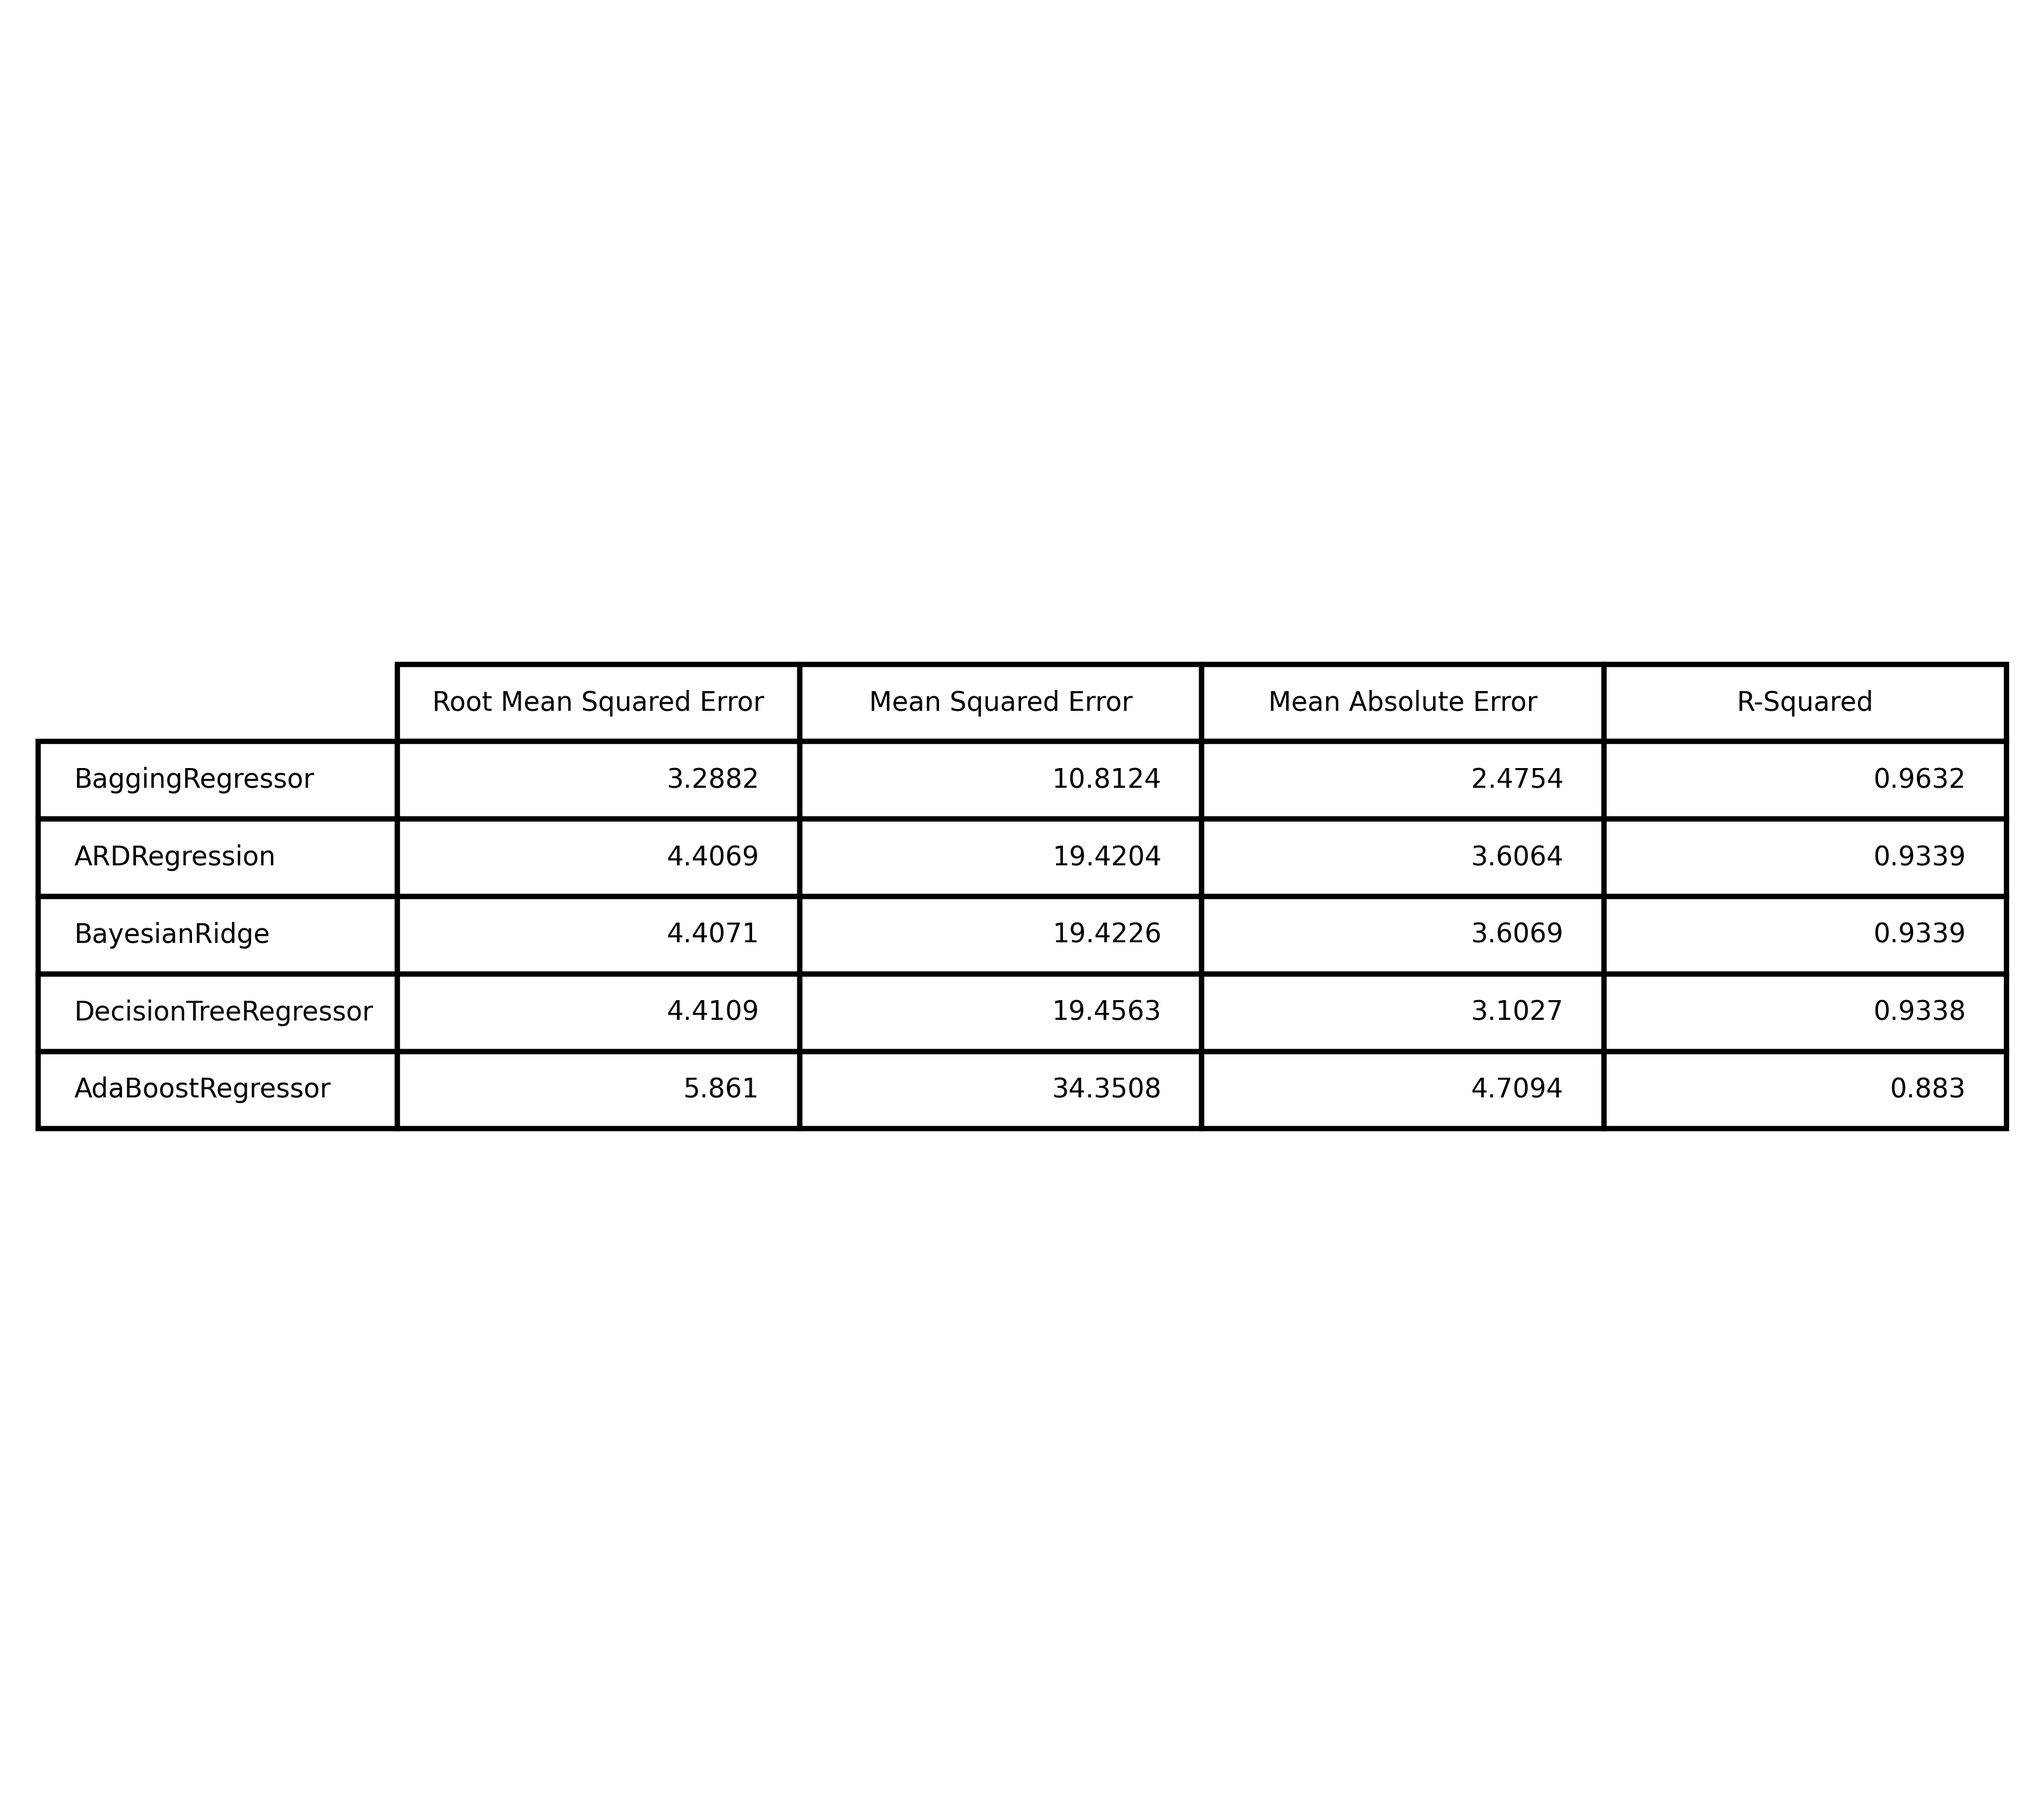
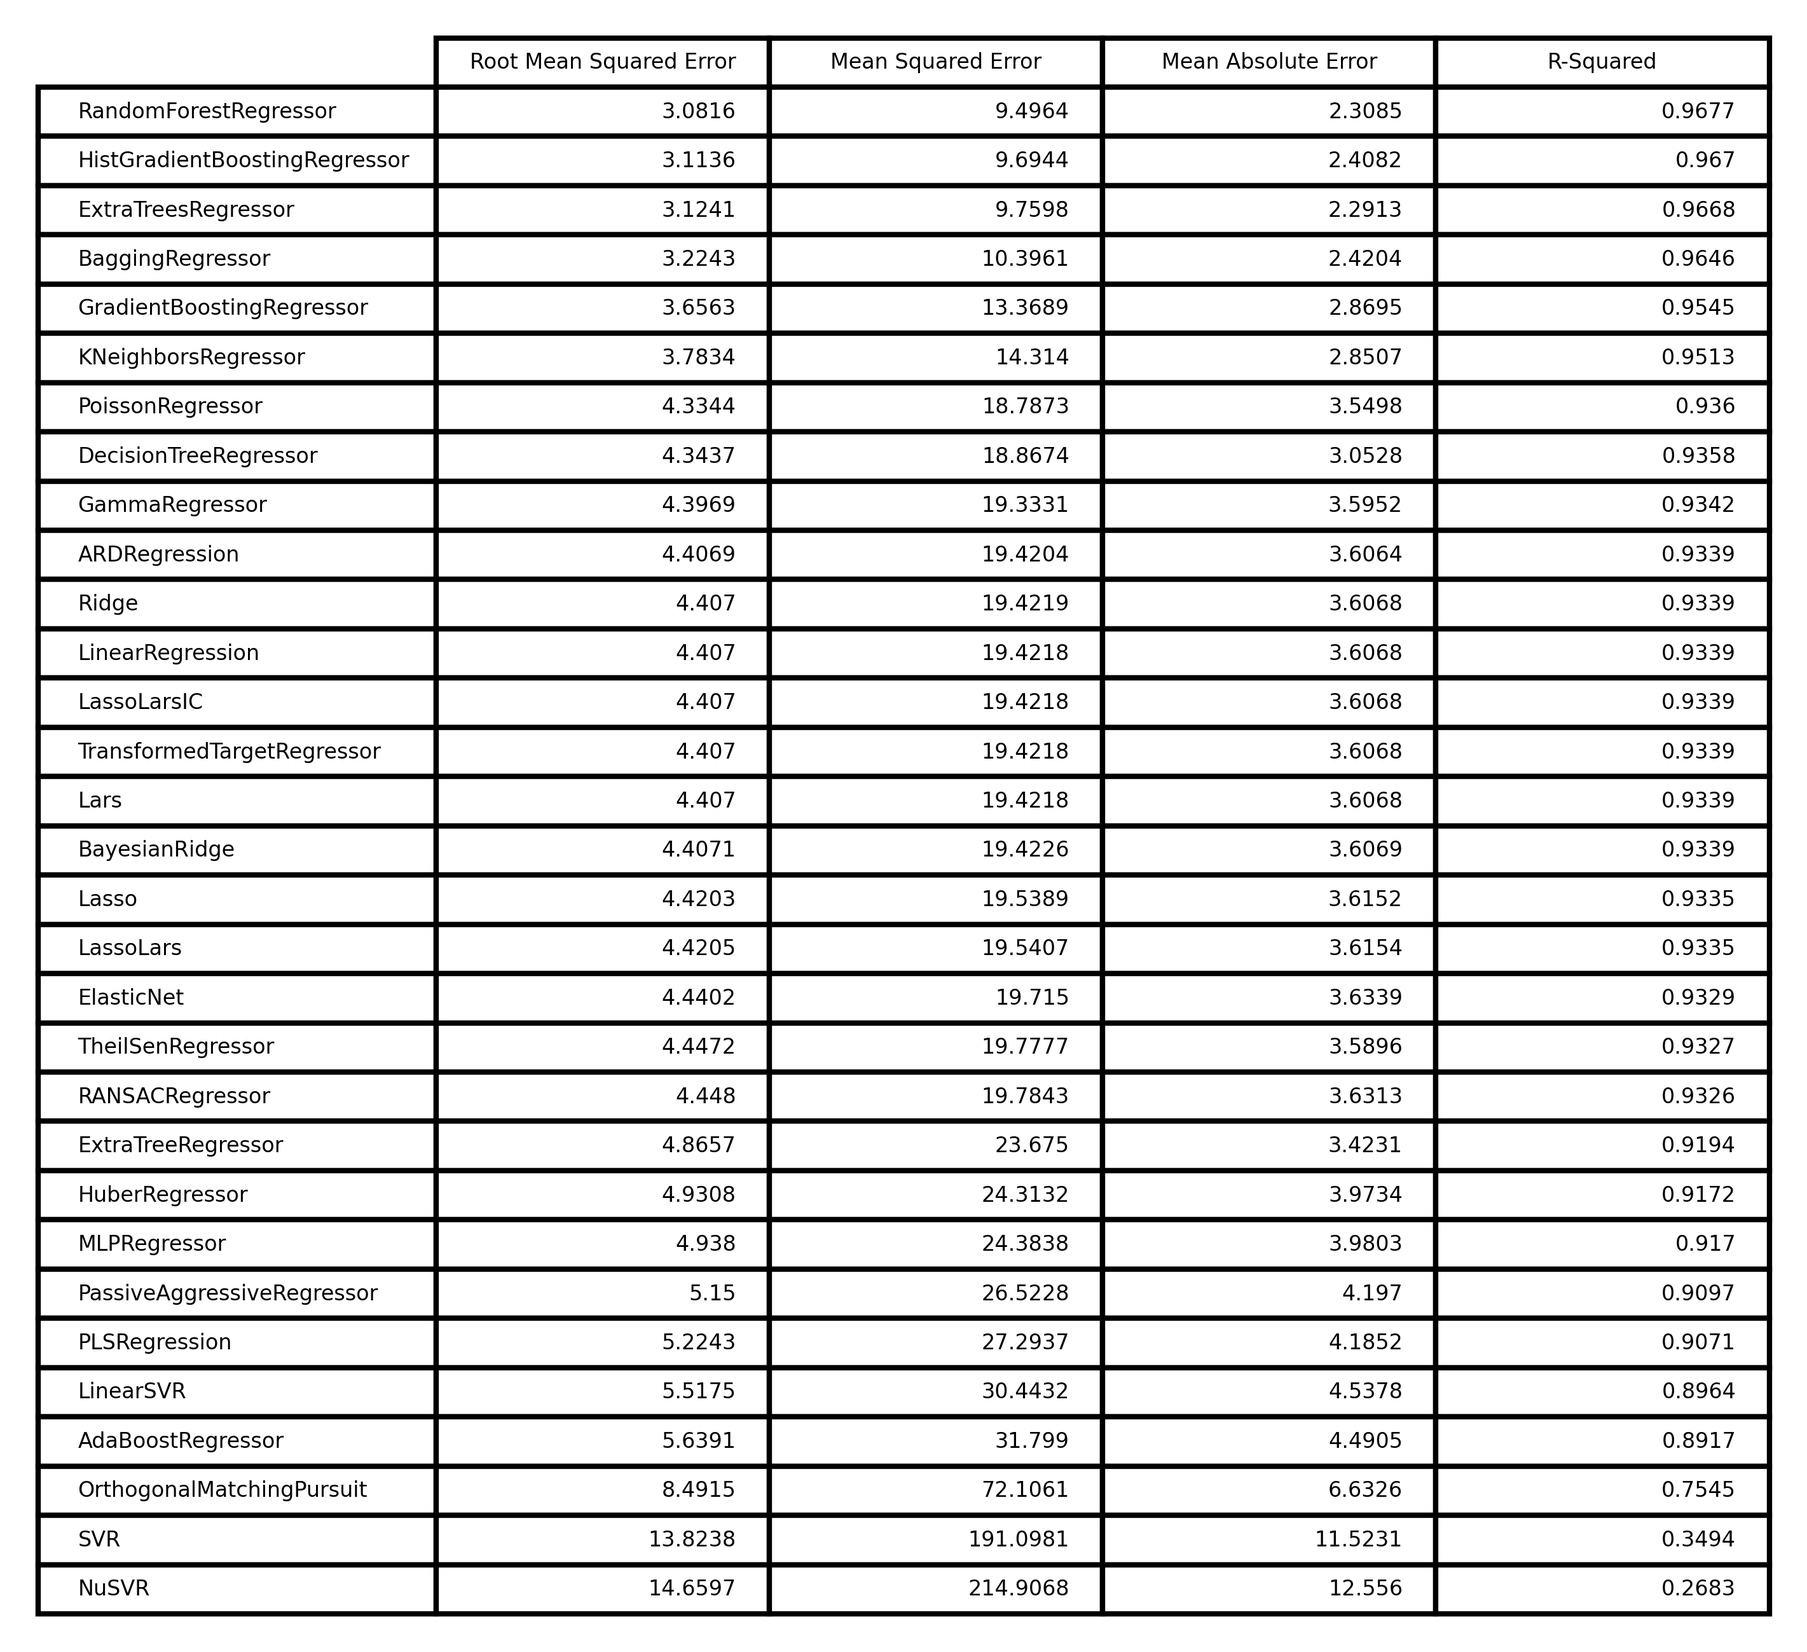
fixed partial cv error

Changed region(s): [[0.0, 0.0, 0.9909, 0.9977]]

diff --git a/AutoML/ScikitLearn/parSim_v5/samutils.py b/AutoML/ScikitLearn/parSim_v5/samutils.py
@@ -143,31 +143,32 @@ def comparison(datapath, n_regressors, metric_list, n_vizualized, metric_help, s
     with multiprocessing.Pool() as pool:
         results = pool.starmap(run, args_lst)
                          
-    org_results = {} # -> {'Reg Name': [{'Same Reg Name': [metric, metric, ..., Reg Obj.]}, {}, {}, ... ], '':[], '':[], ... }
+    org_results = {} # -> {'Reg Name': [{'Same Reg Name': [metric, metric, ..., Reg Obj.]}, {}, {}, ... ], '':[], '':[], ... } of raw results
     for r in results:
-        if list(r.keys())[0] in org_results:
-            org_results[list(r.keys())[0]] += [r]
-        else:
-            org_results[list(r.keys())[0]] = [r]
+        if type(r) == dict:
+            if list(r.keys())[0] in org_results:
+                org_results[list(r.keys())[0]] += [r]
+            else:
+                org_results[list(r.keys())[0]] = [r]
 
-    fin_org_results = {} # -> {'Reg Name': [{'Same Reg Name': [metric, metric, ..., Reg Obj.]}, {}, {}, ... ], '':[], '':[], ... }
+    fin_org_results = {} # -> {'Reg Name': [{'Same Reg Name': [metric, metric, ..., Reg Obj.]}, {}, {}, ... ], '':[], '':[], ... } of only successful CV runs
     for k,v in org_results.items():
         if len(v) == 10:
             fin_org_results[k] = v
 
-
     stop = perf_counter()
     print(f"Time to execute regression: {stop - start:.2f}s")
 
-    figs = [test_best(results, metric_list, test_attrib, test_labels, metric_help)]
-    # figs = [test_best(fin_org_results, metric_list, test_attrib, test_labels, metric_help)]
+    # figs = [test_best(results, metric_list, test_attrib, test_labels, metric_help)]
+    figs = [test_best(fin_org_results, metric_list, test_attrib, test_labels, metric_help)]
 
     # for index in len(range(metric_list)):
     #     figs += [boxplot(results, reg_names, metric_list, n_vizualized, metric_help, index)]
 
     for k in range(len(figs)):
         figs[k].savefig(f'ScikitLearn/parSim_v5/par_1/figure_{k}.png', bbox_inches='tight', dpi=600.0)
-    return f'time: {stop-start}, results length: {len(results)}'
+
+    return f'time: {stop-start}, fin_org_results length: {len(fin_org_results)}'
     
 
 def run(model, model_name, metric_list, metric_help, train_attrib, train_labels, test_attrib, test_labels) -> dict:
@@ -188,6 +189,7 @@ def run(model, model_name, metric_list, metric_help, train_attrib, train_labels,
 
     except Exception as e:
         print(e)
+        pass
 
 
 def boxplot(results, reg_names, metric_list, n_vizualized, metric_help, index):
@@ -211,7 +213,7 @@ def boxplot(results, reg_names, metric_list, n_vizualized, metric_help, index):
     return boxfig
 
 
-def test_best(results, metric_list, test_attrib, test_labels, metric_help):
+def test_best(fin_org_results, metric_list, test_attrib, test_labels, metric_help):
     """
     This function will take the best performing model on each regressor type generated by cross-validation training and 
     apply it to the set of test data. The performance of the regs on the test instances will be displayed on a table and
@@ -220,68 +222,13 @@ def test_best(results, metric_list, test_attrib, test_labels, metric_help):
     columns = metric_list
     rows = []
     output = []
-    for i in range(0,len(results), 10): # -> 0, 10, 20, ...
-        rows.append(list(results[i].keys())[0])
-        examine = results[i:i+10] # -> 10 regressor dict.
-
+    for k,v in fin_org_results.items():
+        rows.append(k)
         scores = []
         models = []
-        for j in examine:
-            scores.append(list(j.values())[0][0])
-            models.append(list(j.values())[0][-1])
-
-        if metric_help[metric_list[0]][0] == True:
-            best = max(zip(scores, models), key = lambda pair: pair[0])[1]
-        else:
-            best = min(zip(scores, models), key = lambda pair: pair[0])[1]
-
-        best_predict = best.predict(test_attrib)
-
-        single_reg_output = []
-        for m in metric_list:
-            calculated = metric_help[m][2](test_labels, best_predict)
-            single_reg_output.append(round(calculated if m != 'Root Mean Squared Error' else calculated**.5,4))
-        
-        output.append(single_reg_output)
-
-    df = pd.DataFrame(data=output, index=rows, columns=columns)
-
-    sorted_df = df.sort_values(by=columns[0], axis=0, ascending=not(metric_help[columns[0]][0]))
-    print(sorted_df)
-
-    fig, ax = plt.subplots()
-    fig.patch.set_visible(False)
-    ax.axis('off')
-    ax.axis('tight')
-    ax.table(cellText=sorted_df.values, rowLabels=sorted_df.index, colLabels=sorted_df.columns, loc='center')
-    fig.tight_layout()
-    return fig
-
-
-
-
-
-
-
-# def test_best(fin_org_results, metric_list, test_attrib, test_labels, metric_help):
-    """
-    This function will take the best performing model on each regressor type generated by cross-validation training and 
-    apply it to the set of test data. The performance of the regs on the test instances will be displayed on a table and
-    saved to the user's CPU as a png file. The regs will be sorted in descending order by performance on specified metrics.
-    """
-    columns = metric_list
-    rows = []
-    output = []
-    for i in range(0,len(results), 10): # -> 0, 10, 20, ...
-        rows.append(list(results[i].keys())[0])
-        examine = results[i:i+10] # -> 10 regressor dict.
-
-        scores = []
-        models = []
-        for j in examine:
-            scores.append(list(j.values())[0][0])
-            models.append(list(j.values())[0][-1])
-
+        for dict in v:
+            scores.append(list(dict.values())[0][0])
+            models.append(list(dict.values())[0][-1])
         if metric_help[metric_list[0]][0] == True:
             best = max(zip(scores, models), key = lambda pair: pair[0])[1]
         else:

diff --git a/AutoML/ScikitLearn/parSim_v5/main.py b/AutoML/ScikitLearn/parSim_v5/main.py
@@ -8,7 +8,7 @@ sys.path.append(os.getcwd())
 from samutils import*
 
 paramdict = {'datapath': 'PowerPlantData\Folds5x2_pp.csv',
-            'n_regressors': 8,
+            'n_regressors': -1,
             'metric_list': ['Mean Squared Error','Mean Absolute Error','R-Squared'],
             'n_vizualized': 5,
             #GENERAL FORM of metric_help: { 'metric': [ higher score is better?, positive or negative score values, accociated stat function ] } 
